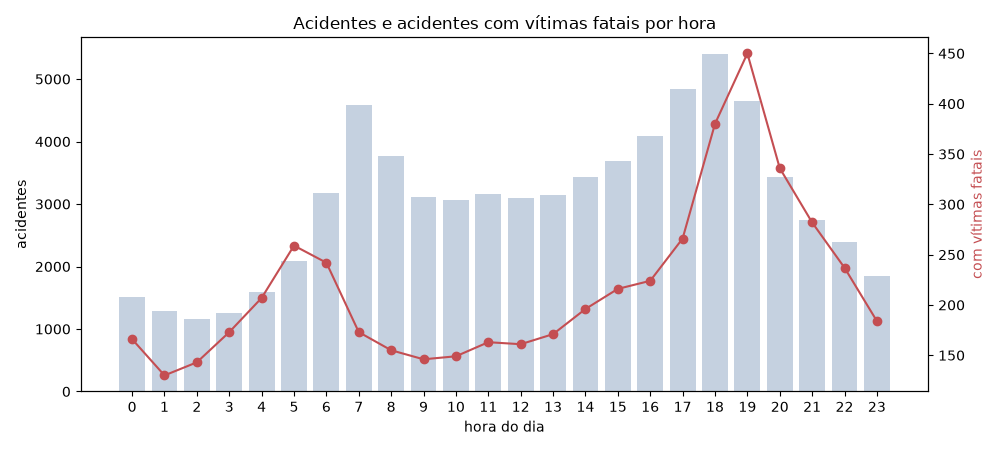
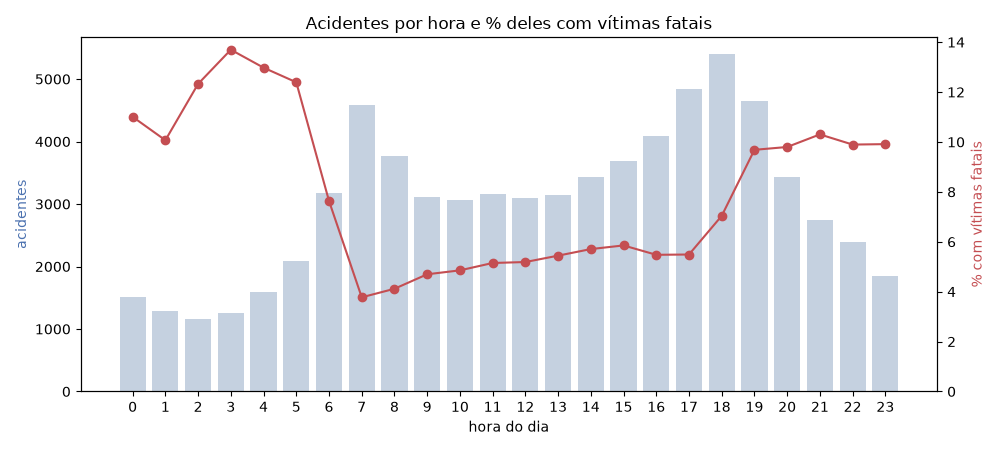
Gera de novo o relatório e os gráficos de hora e da média móvel

diff --git a/RELATORIO.md b/RELATORIO.md
@@ -1,6 +1,6 @@
 # Relatório — acidentes nas rodovias federais (PRF, 2025)
 
-Gerado por `python -m acidentes.relatorio` a partir das consultas de `sql/`.
+Gerado na raiz do repositório por `uv run python -m acidentes.relatorio`.
 
 ## 1. Acidentes por mês e tendência
 
@@ -135,7 +135,7 @@ Consulta: `sql/06_trechos.sql`
 | SP | 116 | 225 | 57 |
 | RJ | 101 | 322 | 55 |
 
-## 7. MG × SC
+## 7. Comparação entre dois estados (MG × SC)
 
 Consulta: `sql/07_comparacao_ufs.sql`
 
@@ -620,9 +620,9 @@ Consulta: `sql/09_causas_por_uf.sql`
 
 Consulta: `sql/10_fase_dia.sql`
 
-| fase_dia | acidentes | mortos | mortos_por_100 | pct_com_fatais |
+| fase_dia | acidentes | mortos | mortos_por_acidente | pct_com_fatais |
 |---|---|---|---|---|
-| Amanhecer | 3447 | 472 | 13.7 | 11.2 |
-| Plena Noite | 24781 | 2892 | 11.7 | 10.2 |
-| Anoitecer | 3926 | 288 | 7.3 | 6.4 |
-| Pleno dia | 40375 | 2391 | 5.9 | 5.1 |
+| Amanhecer | 3447 | 472 | 0.1369 | 11.2 |
+| Plena Noite | 24781 | 2892 | 0.1167 | 10.2 |
+| Anoitecer | 3926 | 288 | 0.0734 | 6.4 |
+| Pleno dia | 40375 | 2391 | 0.0592 | 5.1 |
